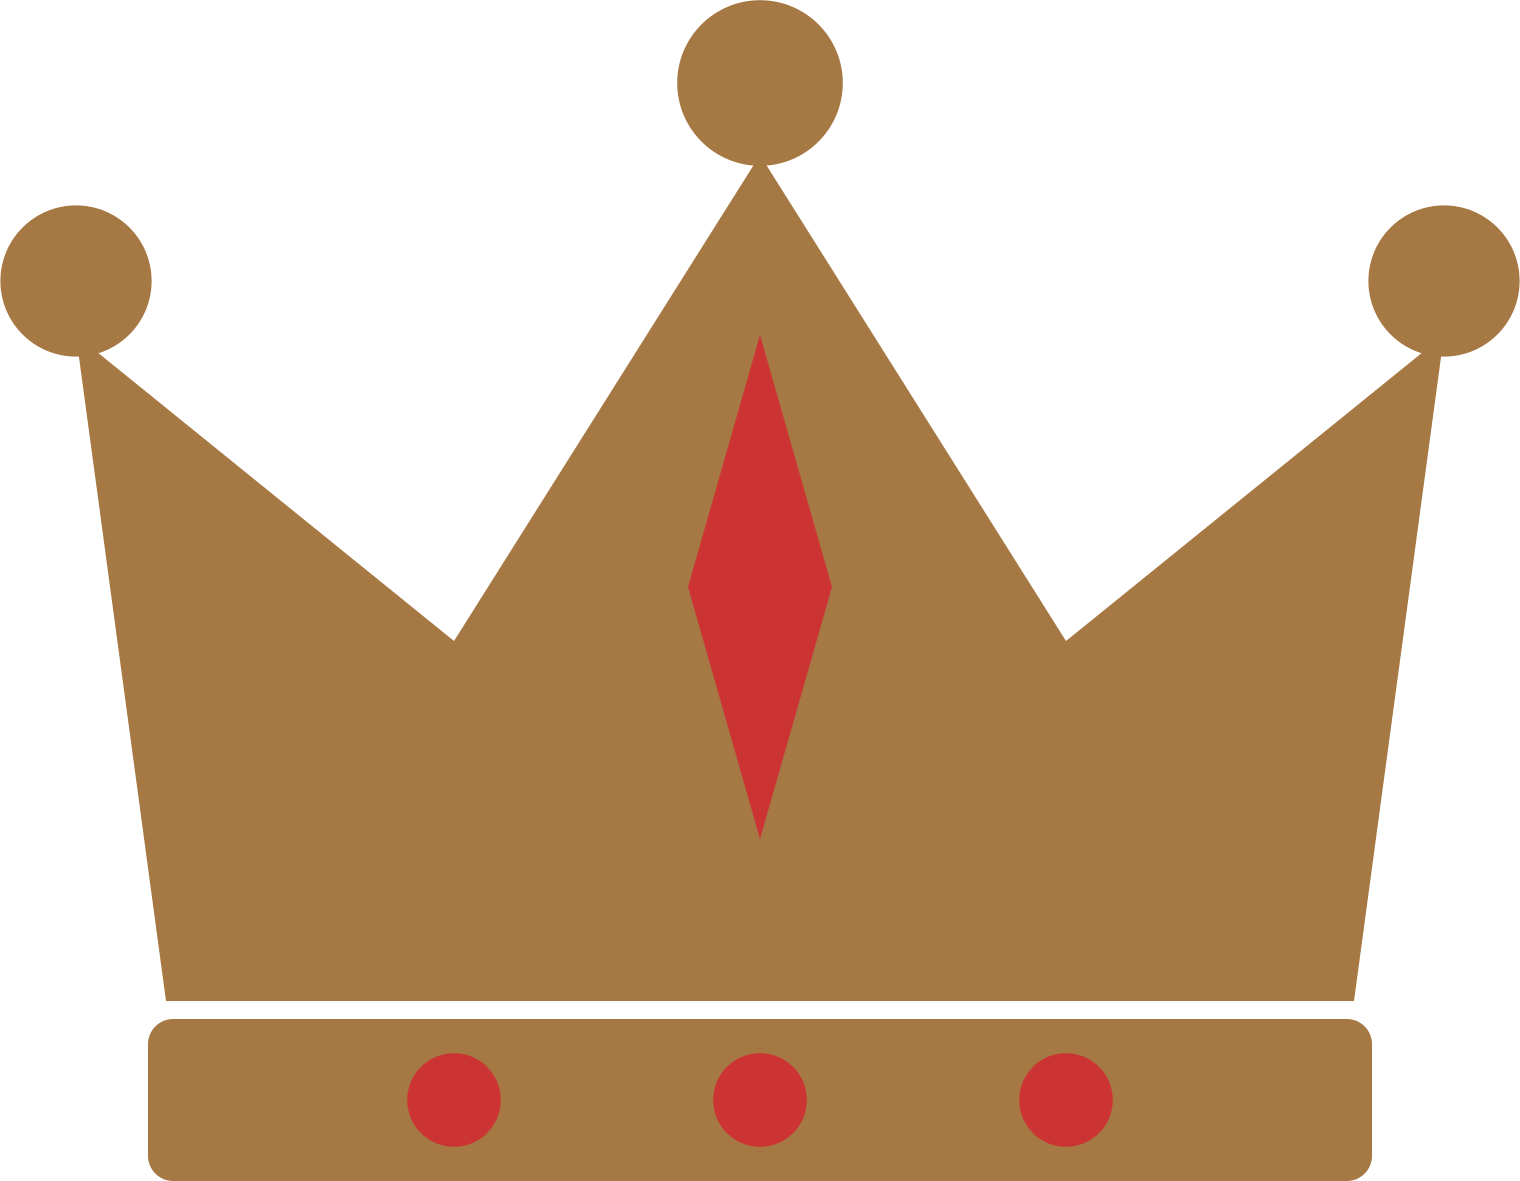
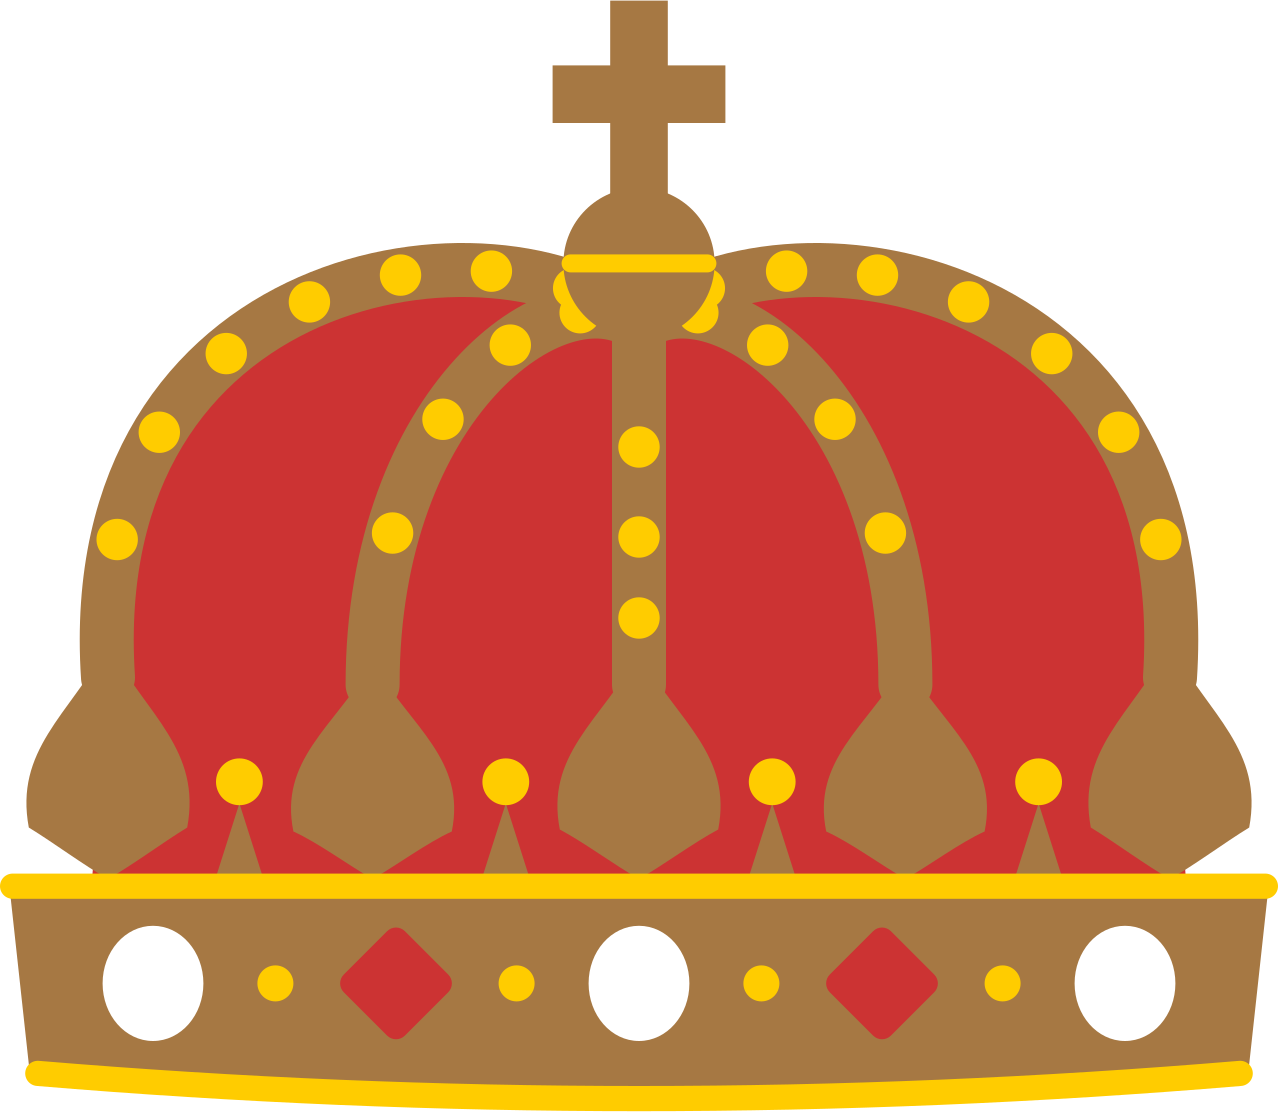
Royal crown (lookbook style) for embroidery, painted red-gold swoosh, rebuild option for changed designs, calendar photo paths use the design slug
Claude-Session: https://claude.ai/code/session_019ssy8NQtdB6d37UcpD5zgq

diff --git a/src/lib/fulfillment/catalog-builder.ts b/src/lib/fulfillment/catalog-builder.ts
@@ -782,7 +782,7 @@ async function stepMockup(job: JobRow): Promise<StepResult> {
     // lifestyle photos generated with the PDFs (scripts/calendar-mockups.py), served as static files from our domain
     const labels = ["en la pared", "un mes por dentro", "portada y enero"];
     for (let n = 1; n <= 3; n++) {
-      await addImage(product!.id, `${env.siteUrl()}/catalog/calendars/${st.slug}-${n}.jpg`, `${product!.name} — ${labels[n - 1]}`, n - 1, null, n === 1 ? "LIFESTYLE" : "MOCKUP");
+      await addImage(product!.id, `${env.siteUrl()}/catalog/calendars/${design.slug}-${n}.jpg`, `${product!.name} — ${labels[n - 1]}`, n - 1, null, n === 1 ? "LIFESTYLE" : "MOCKUP");
     }
     await save(job, { phase: "publish" });
     return { key: job.key, phase: "publish", done: false };
@@ -902,7 +902,7 @@ async function release(key: string) {
   await db().from("catalog_jobs").update({ locked_until: null }).eq("key", key);
 }
 
-export async function runStep(key: string, staff: StaffSession, opts: { retry?: boolean; reset?: boolean } = {}): Promise<StepResult> {
+export async function runStep(key: string, staff: StaffSession, opts: { retry?: boolean; reset?: boolean; rebuild?: boolean } = {}): Promise<StepResult> {
   const kind: JobRow["kind"] = key.startsWith("res:") ? "RESOLVE" : "PRODUCT";
   await loadJob(key, kind); // make sure the row exists before leasing
   if (!(await lease(key))) return { key, phase: "busy", done: true, message: "otro proceso lo está construyendo" };
@@ -913,8 +913,20 @@ export async function runStep(key: string, staff: StaffSession, opts: { retry?: 
   }
 }
 
-async function runStepLocked(key: string, kind: JobRow["kind"], staff: StaffSession, opts: { retry?: boolean; reset?: boolean }): Promise<StepResult> {
+async function runStepLocked(key: string, kind: JobRow["kind"], staff: StaffSession, opts: { retry?: boolean; reset?: boolean; rebuild?: boolean }): Promise<StepResult> {
   const job = await loadJob(key, kind);
+  // rebuild: the design changed — retire the live product (hidden + archived, slug freed, order history intact)
+  // and build it again from the current artwork.
+  if (opts.rebuild && kind === "PRODUCT" && (job.phase === "done" || job.phase === "failed")) {
+    if (job.product_id) {
+      const { data: old } = await db().from("products").select("slug").eq("id", job.product_id).maybeSingle();
+      if (old) await db().from("products").update({ status: "ARCHIVED", visibility: "HIDDEN", slug: `${old.slug}-v${Date.now().toString(36)}` }).eq("id", job.product_id);
+    }
+    await save(job, { phase: "new", product_id: null, state: {}, error: null, attempts: 0 });
+    job.phase = "new";
+    job.product_id = null;
+    job.state = {};
+  }
   // reset: re-resolve a provider lookup (e.g. after a provider-selection change). Only for RESOLVE jobs
   // and only if no product built on it is already live — products keep their own mapping.
   if (opts.reset && kind === "RESOLVE" && job.phase !== "new") {

diff --git a/src/app/api/admin/catalog/route.ts b/src/app/api/admin/catalog/route.ts
@@ -27,11 +27,11 @@ export async function GET() {
 export async function POST(req: Request) {
   const staff = await staffOr403();
   if (!staff) return NextResponse.json({ error: "FORBIDDEN" }, { status: 403 });
-  const body = (await req.json().catch(() => ({}))) as { key?: string; retry?: boolean; reset?: boolean };
+  const body = (await req.json().catch(() => ({}))) as { key?: string; retry?: boolean; reset?: boolean; rebuild?: boolean };
   const key = typeof body.key === "string" ? body.key : "";
   if (!buildPlan().some((p) => p.key === key)) return NextResponse.json({ error: "UNKNOWN_JOB" }, { status: 400 });
   const started = Date.now();
-  const res = await runStep(key, staff, { retry: Boolean(body.retry), reset: Boolean(body.reset) });
+  const res = await runStep(key, staff, { retry: Boolean(body.retry), reset: Boolean(body.reset), rebuild: Boolean(body.rebuild) });
   log.info("CATALOG", "catalog step", { key, phase: res.phase, ms: Date.now() - started, error: res.error });
   return NextResponse.json(res);
 }

diff --git a/src/lib/catalog/designs.ts b/src/lib/catalog/designs.ts
@@ -336,9 +336,9 @@ const BASE_DESIGNS: Design[] = [
     slug: "corona-bordada",
     collection: "esenciales",
     name: "Corona Bordada",
-    line: "La corona y el nombre de la casa, bordados en oro viejo, blanco y rojo.",
+    line: "La corona real y el nombre de la casa, bordados en oro, blanco y rojo — como en nuestro lookbook.",
     tone: "dark",
-    layers: [img("crown-emb", 0.2, 0.36), txt("ROJO Y", "serif", "#FFFFFF", 0.36, 0.06), txt("GUALDA", "serif", "#A67843", 0.44, 0.07), img("flag-emb", 0.51, 0.2)],
+    layers: [img("crown-emb", 0.19, 0.36), txt("ROJO Y", "serif", "#FFFFFF", 0.355, 0.06), txt("GUALDA", "serif", "#FFCC00", 0.435, 0.07), img("swoosh-emb", 0.515, 0.42)],
     products: ["cap", "beanie", "embtee", "embhoodie", "patch"],
     tags: ["bordado", "logo", "bestseller"],
   },
